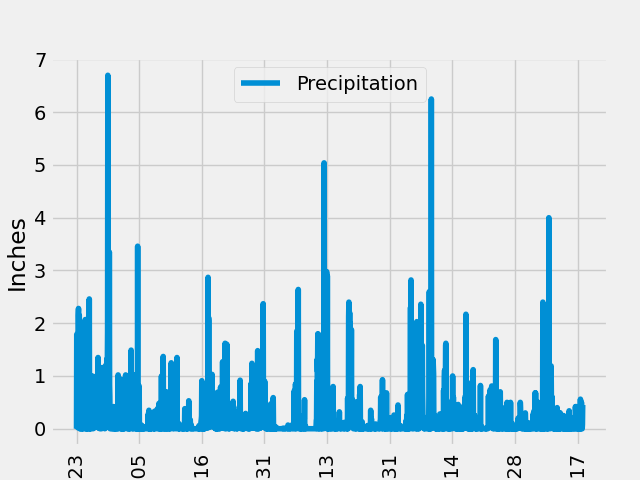
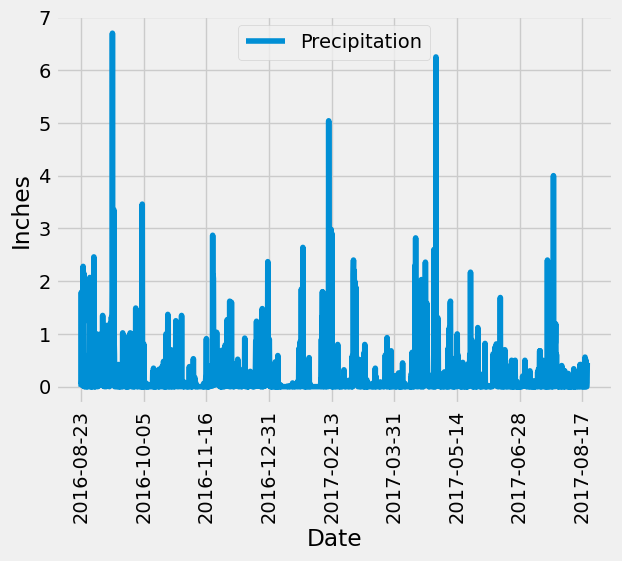
Fixed graph pngs that were cut off & updated read.me

diff --git a/README.md b/README.md
@@ -2,9 +2,12 @@
 Part 1: Analyze and Explore the Climate Data
 Precipitation Analysis
 ![Alt text](<SurfsUp/Precipitation Analysis.png>)
+
 Station Analysis 
 ![Alt text](<SurfsUp/Station Analysis.png>)
 
 Part 2: Design Your Climate App
 
 
+Resources Used 
+https://copyprogramming.com/howto/5-solutions-to-fix-python-plot-cut-off-when-saving-with-matplotlib
